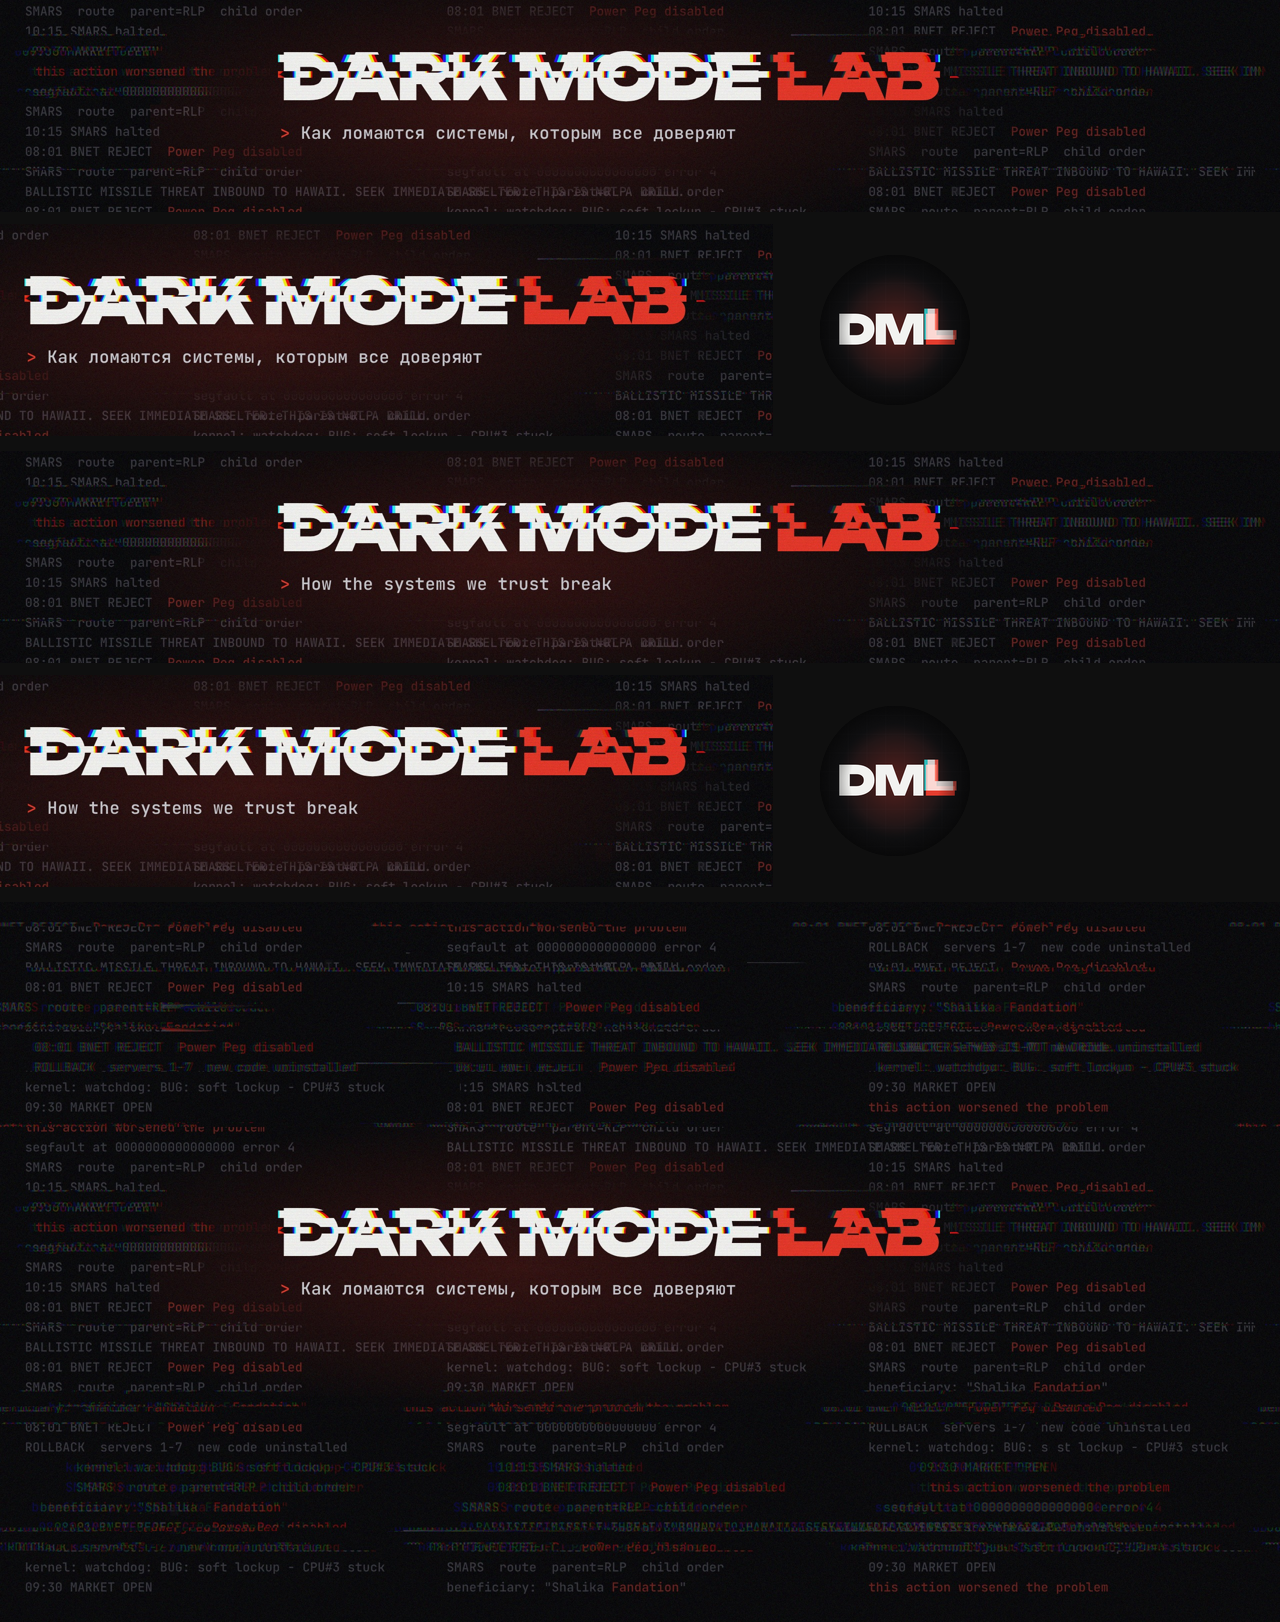
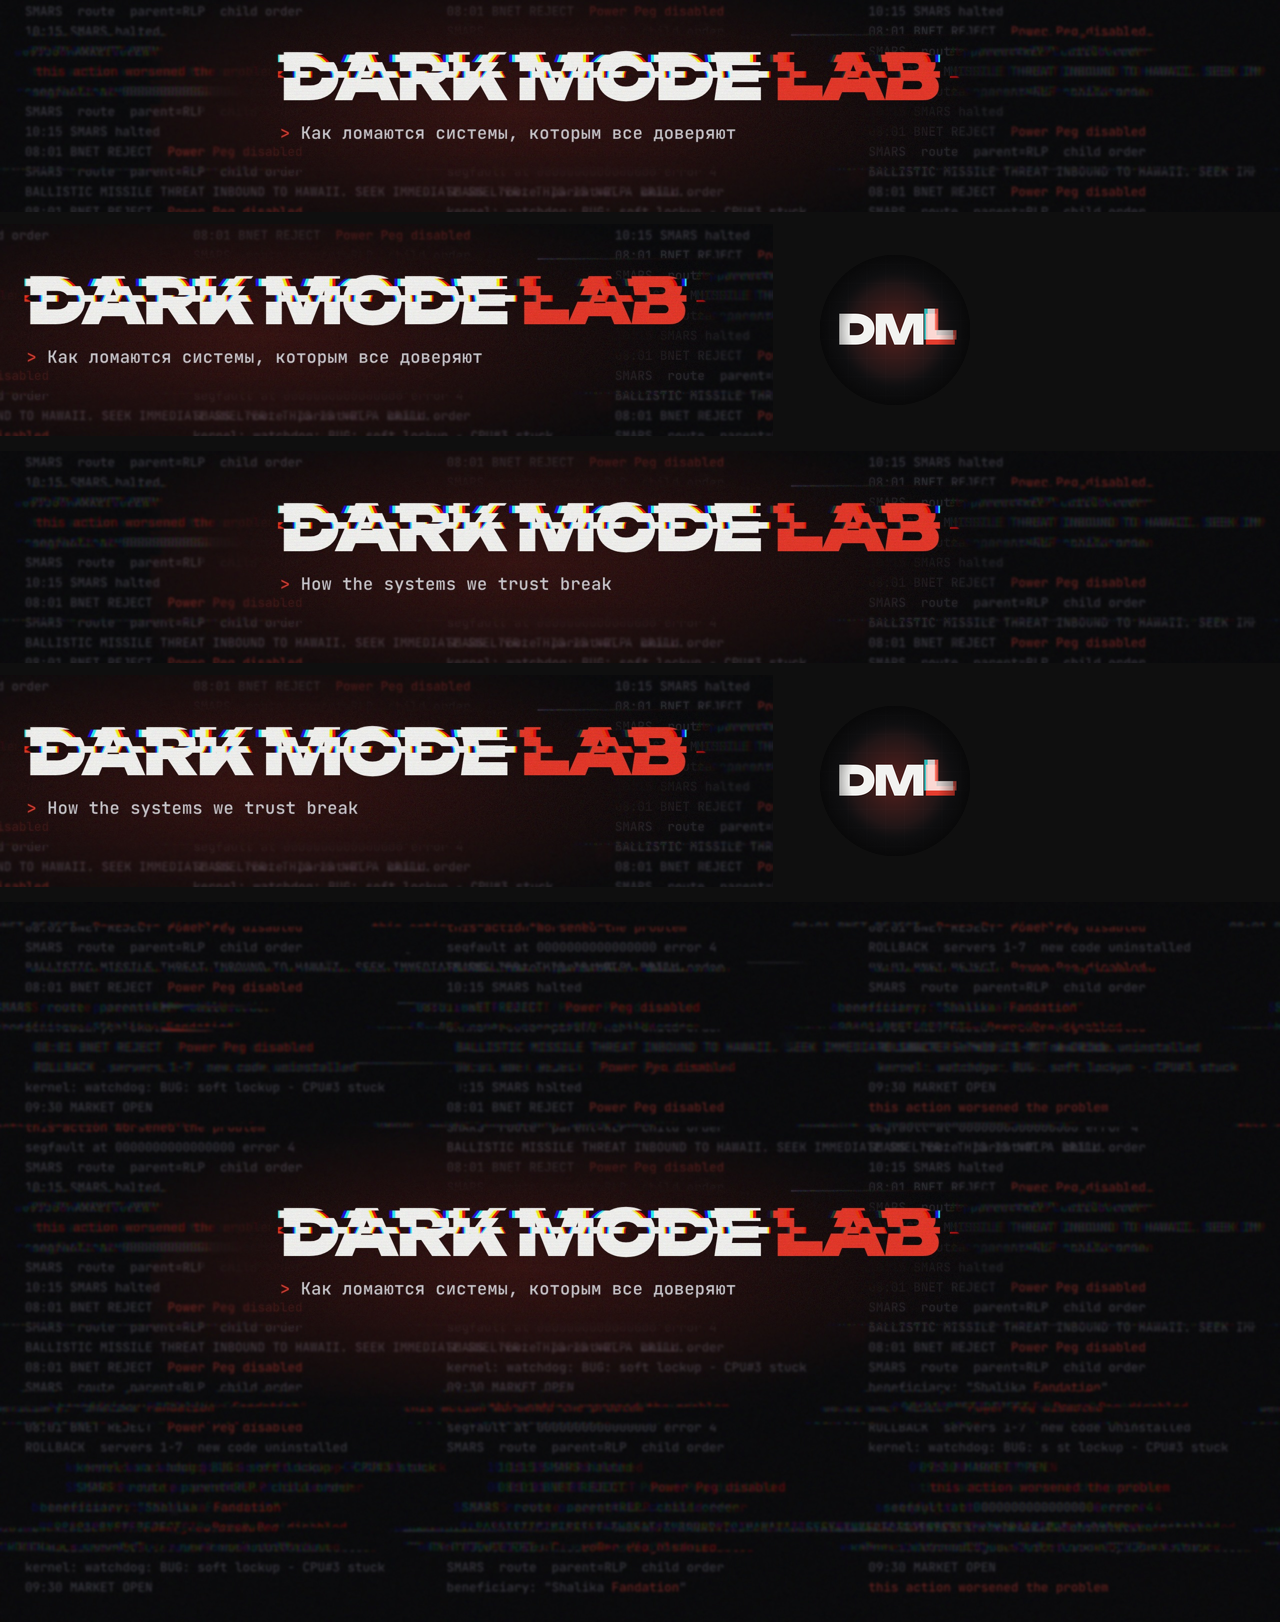
Шапка: фон чуть размыт, название читается лучше

diff --git a/assets/brand/final/README.md b/assets/brand/final/README.md
@@ -7,5 +7,5 @@
 | `banner-en.jpg` (2560×1440) | Баннер английского канала | то же |
 
 Концепт: G1 «Сбой» — лог системы, который ломается, за глитч-логотипом. Слоган: «Как ломаются системы, которым все доверяют» / «How the systems we trust break».
-Исходник: `assets/brand/brand-v4.html` (#g1; `#en` — английский слоган) → `scripts/glitch.py --seed 11 --amount 1.0 --protect 540,585,1900,815 --soft 556,600,1880,722 --soft-n 2`.
+Исходник: `assets/brand/brand-v4.html` (#g1; `#en` — английский слоган) → `scripts/glitch.py --seed 11 --amount 1.0 --protect 540,585,1900,815 --soft 556,600,1880,722 --soft-n 2` → фон размыт GaussianBlur 2.2, блок названия (520,570–1920,830, мягкий край 28) резкий.
 Шрифты: Unbounded 900 (название), JetBrains Mono (слоган, лог) — локально в `assets/common/fonts/`.
